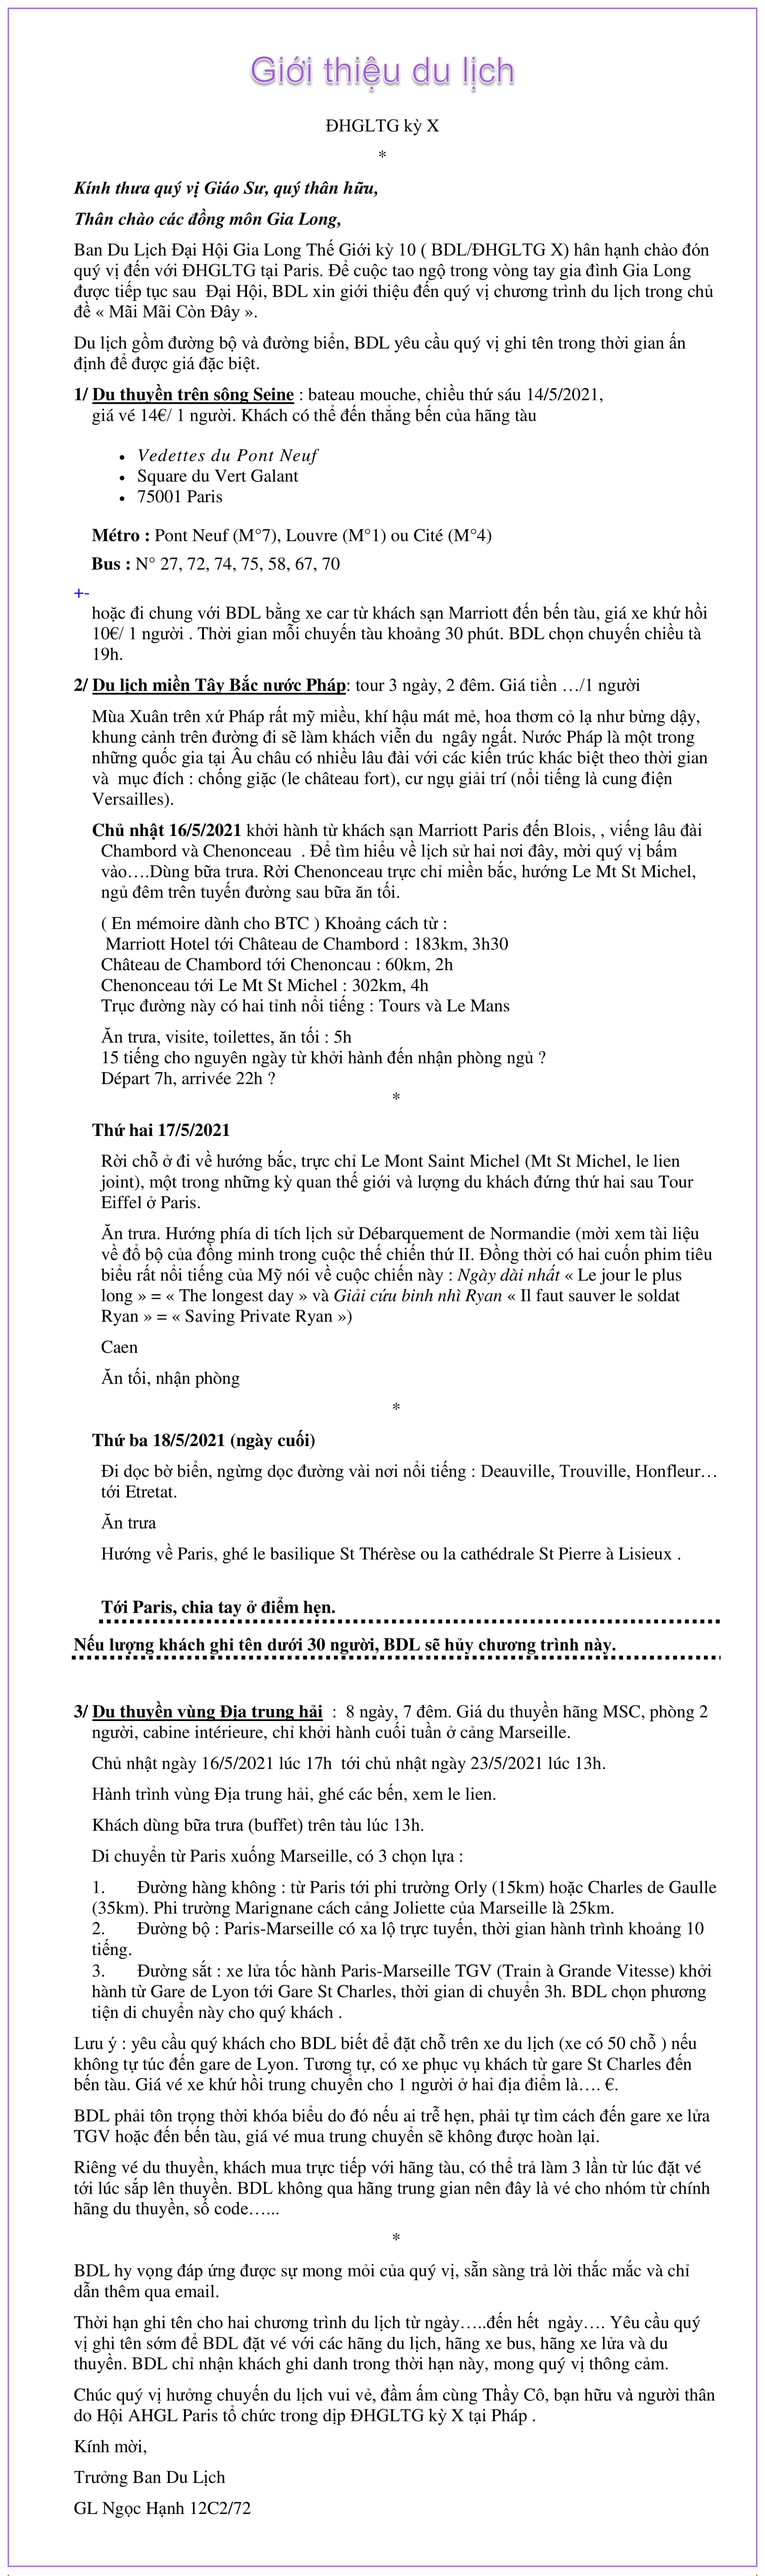
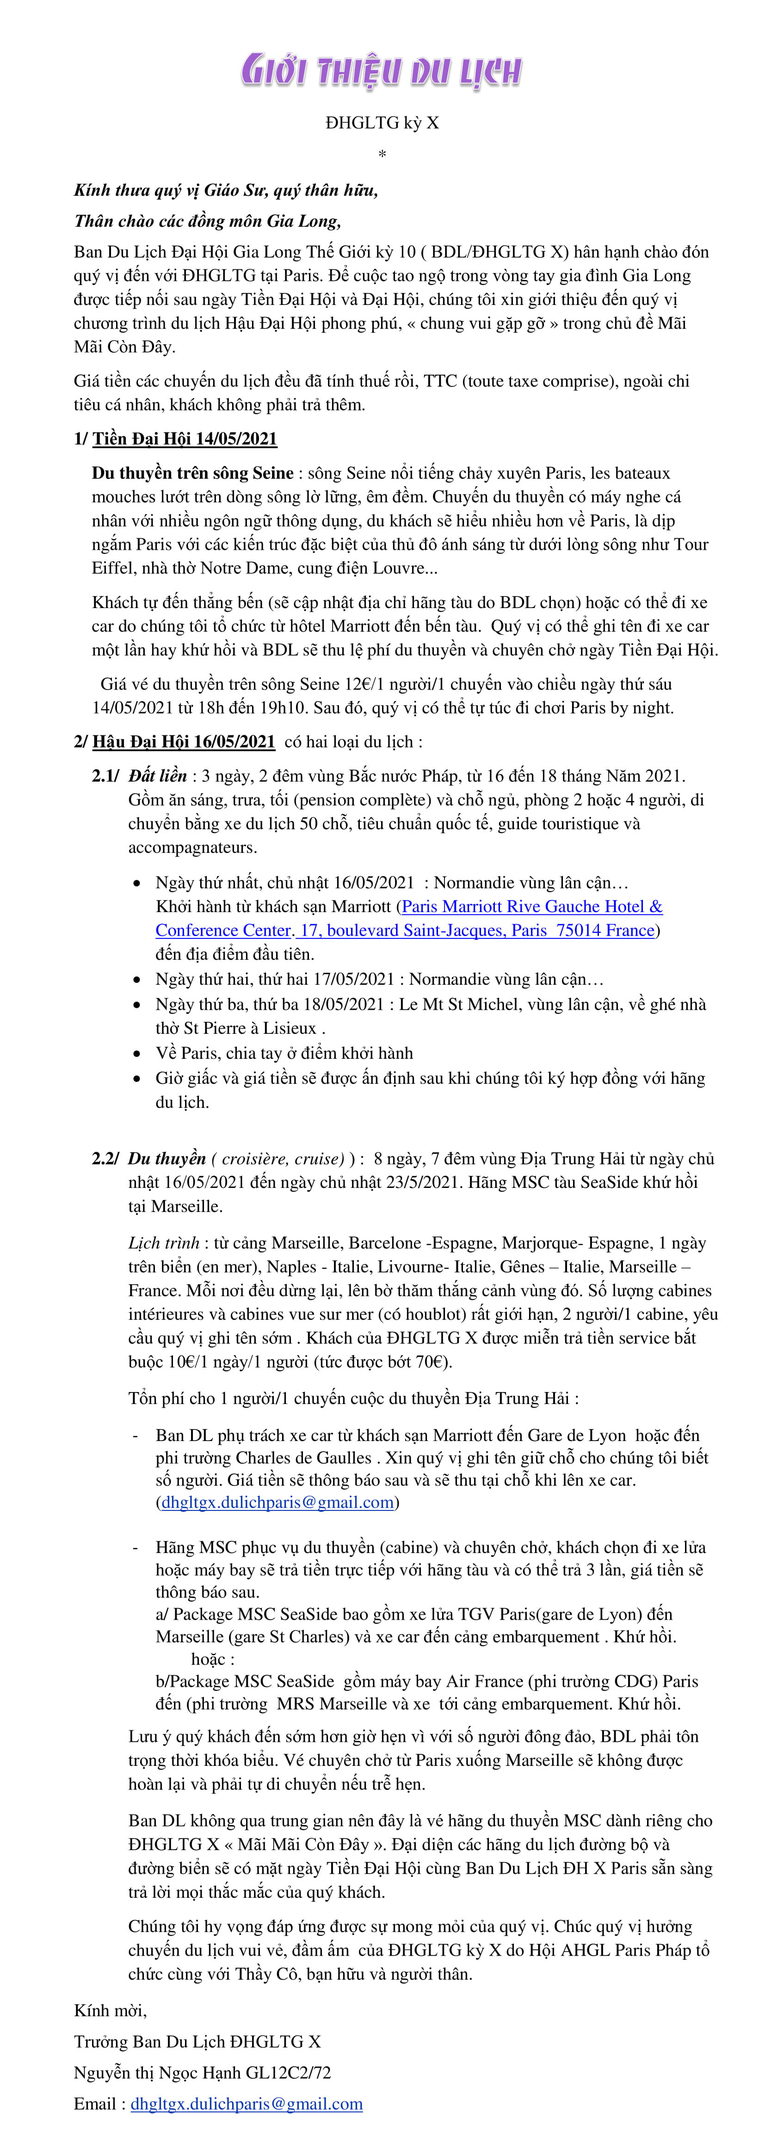
du lich

Changed region(s): [[0.0, 0.0, 0.9867, 1.0], [0.9867, 0.0, 1.0, 0.9959]]

diff --git a/Bao-chi/ThuNgoBaoChi.html b/Bao-chi/ThuNgoBaoChi.html
@@ -67,7 +67,7 @@
            <a class="nav-link dropdown-toggle" href="#" id="dropdown01" data-toggle="dropdown" aria-haspopup="true" aria-expanded="false">VĂN NGHỆ</a>
            <div class="dropdown-menu" aria-labelledby="dropdown01">
             <a class="dropdown-item" href="../Van-nghe/ThuNgoVanNghe.html">Thư ngỏ Ban Văn Nghệ</a>
-            <a class="dropdown-item" href="../Van-nghe/DongGopVanNghe.html">Đóng góp Văn Nghệ</a>
+            <a class="dropdown-item" href="../Van-nghe/TheLeGhiDanh.html">Thể Lệ Ghi Danh</a>
           </div>
         </li>
         <li class="nav-item dropdown active">
@@ -105,14 +105,14 @@
             <p class="paragraphe1">&#x2001;Để Đặc San ĐH được phong phú đồng thời tôn trọng nguồn cảm hứng của tác giả, Ban BC không hạn chế đề tài.</p>
             <p class="paragraphe1">&#x2001;Đặc san ĐH là món ăn tinh thần, là nơi người GL <I>tác giả</I> gửi gấm tâm tình tích trữ bao thập niên hoặc muốn chia sẻ niềm vui, nỗi nhớ mới, cũ ; là nơi người GL <I>độc giả</I> khám phá nhiều điều hay, lạ, lý thú, rồi khi tạm xếp quyển báo, độc giả lắng nghe tâm hồn xúc cảm một cách nhẹ nhàng, thoải mái vì đã tìm lại được thời áo trắng nữ sinh, thời gắn bó dưới mái trường Gia Long yêu dấu, thời của tuổi ô mai, đời chưa nhuốm bụi trần.</p>                  
             <p class="paragraphe1">&#x2001;Với kỳ vọng nội dung và ấn phẩm cuốn đặc san ĐH X sẽ làm hài lòng quý vị , Ban BC xin lưu ý tác giả vài điểm sau đây :</p>
-            <p class="paragraphe1">&#x2001;&#x2001;&#x2001;1.&#x2001;Không gửi bài đã được đăng trên thông tin địa phương hoặc các Hội đoàn.<br>
-            &#x2001;&#x2001;&#x2001;2.&#x2001;Bài viết không dài quá 5 trang A4, kể cả ảnh đính kèm.<br>
-            &#x2001;&#x2001;&#x2001;3.&#x2001;Gửi bài viết tay hoặc dưới dạng chữ Arial, khổ chữ 12, chúng tôi không nhận<br>
-            &#x2001;&#x2001;&#x2001;&#x2001;&#x2001;bài dưới dạng pdf.<br>
-            &#x2001;&#x2001;&#x2001;4.&#x2001;Bài gửi sẽ không hoàn lại (được chọn hay không ), Ban BC toàn quyền sửa,<br>
-            &#x2001;&#x2001;&#x2001;&#x2001;&#x2001;cắt ngắn bài nếu cần.<br>
-            &#x2001;&#x2001;&#x2001;5.&#x2001;Thời hạn nhận bài từ ngày ra thông báo trên website ĐHGLTG X đến hết <br>
-            &#x2001;&#x2001;&#x2001;&#x2001;&#x2001;ngày <b>01 tháng 01 năm 2021</b> .</p>
+            <p class="paragraphe1">&#x2001;&#x2001;1.&#x2000;Không gửi bài đã được đăng trên thông tin địa phương hoặc các Hội đoàn.<br>
+            &#x2001;&#x2001;2.&#x2000;Bài viết không dài quá 5 trang A4, kể cả ảnh đính kèm.<br>
+            &#x2001;&#x2001;3.&#x2000;Gửi bài viết tay hoặc dưới dạng chữ Arial, khổ chữ 12, chúng tôi không nhận<br>
+            &#x2001;&#x2001;&#x2001;&#x2000;bài dưới dạng pdf.<br>
+            &#x2001;&#x2001;4.&#x2000;Bài gửi sẽ không hoàn lại (được chọn hay không ), Ban BC toàn quyền sửa,<br>
+            &#x2001;&#x2001;&#x2001;&#x2000;cắt ngắn bài nếu cần.<br>
+            &#x2001;&#x2001;5.&#x2000;Thời hạn nhận bài từ ngày ra thông báo trên website ĐHGLTG X đến hết <br>
+            &#x2001;&#x2001;&#x2001;&#x2000;ngày <b>01 tháng 01 năm 2021</b> .</p>
             <p class="paragraphe1">Địa chỉ bưu điện : Association Gia Long Paris<br>
                &#x2001;&#x2001;&#x2001;&#x2001;&#x2001;&#x2001;&#x2001;&#x2001;22, rue Ampère<br>
                &#x2001;&#x2001;&#x2001;&#x2001;&#x2001;&#x2001;&#x2001;&#x2001;92160 ANTONY<br>
@@ -126,7 +126,7 @@
                 Trưởng ban BC<br>
                 Nguyễn thị Ngọc Hạnh<br>
                 (GL12 C2 72)<br>              
-            </p
+            </p>
             <br><br>
         </div>
       </div>

diff --git a/GhiDanh.html b/GhiDanh.html
@@ -70,7 +70,7 @@
            <a class="nav-link dropdown-toggle" href="#" id="dropdown01" data-toggle="dropdown" aria-haspopup="true" aria-expanded="false">VĂN NGHỆ</a>
            <div class="dropdown-menu" aria-labelledby="dropdown01">
             <a class="dropdown-item" href="Van-nghe/ThuNgoVanNghe.html">Thư ngỏ Ban Văn Nghệ</a>
-            <a class="dropdown-item" href="Van-nghe/DongGopVanNghe.html">Đóng góp Văn Nghệ</a>
+            <a class="dropdown-item" href="Van-nghe/TheLeGhiDanh.html">Thể Lệ Ghi Danh</a>
           </div>
         </li>
         <li class="nav-item dropdown">
@@ -101,16 +101,40 @@
   <main role="main">
     <div class="container">
       <div class="jumbotron">
-
-        <div class="containerPDF">
-          <!--object data="../images/PHIEU GHI DANH.pdf" type="application/pdf" width="100%" height="100%" internalinstanceid="5">
+        <!--div class="jumbotron1">
+            <br><br>
+            <p class="paragraphe1" align="center"><FONT color="#800080"><b>PHIẾU GHI DANH<br>
+              ĐẠI HỘI GIA LONG THẾ GIỚI KỲ X PARIS</FONT><br>
+              Ngày 14 Đến 15 tháng 5 Năm 2021</b><br>
+              (Dành cho cựu nữ sinh Gia Long và thân hữu)<br>
+              Ban tổ chức sẽ gởi phiếu ghi danh riêng đến quý Giáo Sư
+            </p><br>
+            <p class="paragraphe1">Có 2 cách ghi danh :<br>
+            </p>
+            <p style="text-align:center">                  
+                  <a href="images/PHIEU GHI DANH.xlsx" download><button type="button" class="btn btn-primary"><i class="fa fa-download"></i> PHIẾU GHI DANH DỰ ĐẠI HỘI dạng EXCEL</button></a>
+            </p>
+            <br><br>
+            <p style="text-align:center">                 
+                  <a href="images/PHIEU GHI DANH.pdf" download><button type="button" class="btn btn-primary"><i class="fa fa-download"></i> PHIẾU GHI DANH DỰ ĐẠI HỘI dạng PDF</button></a>
+            </p><br><br>
+        <object data="images/PHIEU GHI DANH.xlsx" type="applicati
+         on/xlsx" width="50%" height="50%" internalinstanceid="5">
+              <p style="text-align:center">
+                  It appears you don't have a EXCEL plugin for this browser.
+                  <a href="images/PHIEU GHI DANH.xlsx" download><button type="button" class="btn btn-primary"><i class="fa fa-download"></i> Download EXCEL</button></a>
+              </p>
+     
+          </object>
+          <object data="images/PHIEU GHI DANH.pdf" type="application/pdf" width="50%" height="50%" internalinstanceid="5">
+              <br><br><br><br>
               <p style="text-align:center">
                   It appears you don't have a PDF plugin for this browser.
-                  <a href="../images/PHIEU GHI DANH.pdf" download><button type="button" class="btn btn-primary"><i class="fa fa-download"></i> Download PDF</button></a>
-              </p>
-          </object-->
-        </div>
-        
+                  <a href="images/PHIEU GHI DANH.pdf" download><button type="button" class="btn btn-primary"><i class="fa fa-download"></i> Download PDF</button></a>
+              </p>          
+          </object>            
+
+        </div-->
       </div>
     </div>
   </main>

diff --git a/Dai-hoi10/TienDaiHoi.html b/Dai-hoi10/TienDaiHoi.html
@@ -67,7 +67,7 @@
            <a class="nav-link dropdown-toggle" href="#" id="dropdown01" data-toggle="dropdown" aria-haspopup="true" aria-expanded="false">VĂN NGHỆ</a>
            <div class="dropdown-menu" aria-labelledby="dropdown01">
             <a class="dropdown-item" href="../Van-nghe/ThuNgoVanNghe.html">Thư ngỏ Ban Văn Nghệ</a>
-            <a class="dropdown-item" href="../Van-nghe/DongGopVanNghe.html">Đóng góp Văn Nghệ</a>
+            <a class="dropdown-item" href="../Van-nghe/TheLeGhiDanh.html">Thể Lệ Ghi Danh</a>
           </div>
         </li>
         <li class="nav-item dropdown">
@@ -123,7 +123,7 @@
           <p class="paragraphe">Thời gian&nbsp&nbsp&nbsp&nbsp&nbsp:&nbsp&nbsp&nbsp&nbsp&nbsp18 g 00 - 19 g 30</p>
           <p class="paragraphe">Địa điểm&nbsp&nbsp&nbsp&nbsp&nbsp:&nbsp&nbsp&nbsp&nbsp&nbspPont Neuf</p>
           <p class="paragraphe">Du thuyền trên sông Seine quanh thành phố Paris buổi hoàng hôn dưới ánh đèn chiếu sáng cả hai bên dòng sông thơ mộng</p>
-          <p class="paragraphe">Giá vé&nbsp&nbsp&nbsp&nbsp&nbsp&nbsp&nbsp&nbsp&nbsp&nbsp:&nbsp&nbsp&nbsp&nbsp&nbsp<b>14 Euros</b></p>
+          <p class="paragraphe">Giá vé&nbsp&nbsp&nbsp&nbsp&nbsp&nbsp&nbsp&nbsp&nbsp&nbsp:&nbsp&nbsp&nbsp&nbsp&nbsp<b>12 Euros</b></p>
           <br>
           <p class="paragraphe">Đại Hội Gia Long Thế Giới Paris chúc Thầy Cô và các bạn tham dự một ngày vui trọn vẹn.</p>
           <br><br>

diff --git a/site.css b/site.css
@@ -35,7 +35,7 @@ body{
 }
 
 .ThuNgoImage{
-  width: 90%;
+  width: 85%;
   height: auto;
   margin-top: 30px;
   margin-bottom: 15px;
@@ -53,17 +53,17 @@ body{
   margin-left: 7%;
   margin-right: 7%;
   font-family: 'Livvic', sans-serif;
-  font-size: 19px;
-  line-height: 30px;
+  font-size: 17px;
+  line-height: 20px;
 }
 .paragraphe1 {
   text-indent: 0px;
-  margin-left: 9%;
+  margin-left: 7%;
   margin-right: 7%;
   font-family: 'Livvic', sans-serif;
   /*font-family: 'Times New Roman', Times, serif;*/
-  font-size: 19px;
-  line-height: 31px;
+  font-size: 17px;
+  line-height: 25px;
   user-select: none;
 }
 
@@ -72,9 +72,9 @@ body{
   margin-left: 5%;
   margin-right: 5%;
   font-family: 'Times New Roman', Times, serif;
-  font-size: 26px;
+  font-size: 21px;
   /*font-weight: bold;*/
-  line-height: 28px;
+  line-height: 24px;
 
 }
 .jumbotron{
@@ -98,7 +98,7 @@ body{
   }
 .jumbotron2{
   padding-top: 1%;
-  width: 80%;
+  width: 85%;
   display:block;
   margin-top: 1%;
   margin-left:auto;
@@ -131,6 +131,16 @@ body{
   text-shadow: 1px 1px #000000;
   line-height: 14px;
   font-size: 13px;
+ }
+ @media only screen and (max-device-width:1100px)
+ {
+  .nav-link{
+  color: white!important;
+  font-family: 'Merriweather', serif;
+  text-shadow: 1px 1px #000000;
+  line-height: 11px;
+  font-size: 10px;
+ }
  }
 .dropdown-item{
   font-family: 'Merriweather', serif;

diff --git a/Van-nghe/TheLeGhiDanh.html b/Van-nghe/TheLeGhiDanh.html
@@ -5,7 +5,7 @@
   <meta name="description" content="">
   <meta name="author" content="AHGLPARIS">
   <meta name="generator" content="Jekyll v3.8.5">
-  <title>ĐÓNG GÓP VĂN NGHỆ</title>
+  <title> THỂ LỆ GHI DANH</title>
 
   <link rel="canonical" href="https://getbootstrap.com/docs/4.3/examples/jumbotron/">
   <!-- Bootstrap core CSS -->
@@ -67,7 +67,7 @@
            <a class="nav-link dropdown-toggle" href="#" id="dropdown01" data-toggle="dropdown" aria-haspopup="true" aria-expanded="false">VĂN NGHỆ</a>
            <div class="dropdown-menu" aria-labelledby="dropdown01">
             <a class="dropdown-item" href="../Van-nghe/ThuNgoVanNghe.html">Thư ngỏ Ban Văn Nghệ</a>
-            <a class="dropdown-item" href="../Van-nghe/DongGopVanNghe.html">Đóng góp Văn Nghệ<span class="sr-only">(current)</span></a>
+            <a class="dropdown-item" href="../Van-nghe/TheLeGhiDanh.html">Thể Lệ Ghi Danh<span class="sr-only">(current)</span></a>
           </div>
         </li>
         <li class="nav-item dropdown">

diff --git a/Du-lich/ThuNgoDuLich.html b/Du-lich/ThuNgoDuLich.html
@@ -67,7 +67,7 @@
            <a class="nav-link dropdown-toggle" href="#" id="dropdown01" data-toggle="dropdown" aria-haspopup="true" aria-expanded="false">VĂN NGHỆ</a>
            <div class="dropdown-menu" aria-labelledby="dropdown01">
             <a class="dropdown-item" href="../Van-nghe/ThuNgoVanNghe.html">Thư ngỏ Ban Văn Nghệ</a>
-            <a class="dropdown-item" href="../Van-nghe/DongGopVanNghe.html">Đóng góp Văn Nghệ</a>
+            <a class="dropdown-item" href="../Van-nghe/TheLeGhiDanh.html">Thể Lệ Ghi Danh</a>
           </div>
         </li>
         <li class="nav-item dropdown">
@@ -102,9 +102,10 @@
 
 
       <div class="jumbotron">
-        <!--img src="../images/GioiThieuDuLich.jpg" class="responsiveImage1"-->
+        <div class="jumbotron1">
+          <img src="../images/GioiThieuDuLich.jpg" class="responsiveImage1">
+        </div>
       </div>
-
     </div>
 
 

diff --git a/Gioi-thieu/GiaoSuCoVan.html b/Gioi-thieu/GiaoSuCoVan.html
@@ -67,7 +67,7 @@
            <a class="nav-link dropdown-toggle" href="#" id="dropdown01" data-toggle="dropdown" aria-haspopup="true" aria-expanded="false">VĂN NGHỆ</a>
            <div class="dropdown-menu" aria-labelledby="dropdown01">
             <a class="dropdown-item" href="../Van-nghe/ThuNgoVanNghe.html">Thư ngỏ Ban Văn Nghệ</a>
-            <a class="dropdown-item" href="../Van-nghe/DongGopVanNghe.html">Đóng góp Văn Nghệ</a>
+            <a class="dropdown-item" href="../Van-nghe/TheLeGhiDanh.html">Thể Lệ Ghi Danh</a>
           </div>
         </li>
         <li class="nav-item dropdown">
@@ -102,7 +102,7 @@
 
 
       <div class="jumbotron">
-        <img src="../images/GsCoVan.jpg" alt="" class="responsiveImage2">
+          <img src="../images/GsCoVan.jpg" alt="" class="responsiveImage2">
       </div>
 
     </div>

diff --git a/Gioi-thieu/ThuMoi.html b/Gioi-thieu/ThuMoi.html
@@ -67,7 +67,7 @@
            <a class="nav-link dropdown-toggle" href="#" id="dropdown01" data-toggle="dropdown" aria-haspopup="true" aria-expanded="false">VĂN NGHỆ</a>
            <div class="dropdown-menu" aria-labelledby="dropdown01">
             <a class="dropdown-item" href="../Van-nghe/ThuNgoVanNghe.html">Thư ngỏ Ban Văn Nghệ</a>
-            <a class="dropdown-item" href="../Van-nghe/DongGopVanNghe.html">Đóng góp Văn Nghệ</a>
+            <a class="dropdown-item" href="../Van-nghe/TheLeGhiDanh.html">Thể Lệ Ghi Danh</a>
           </div>
         </li>
         <li class="nav-item dropdown">
@@ -102,7 +102,7 @@
 
 
       <div class="jumbotron">
-        <img src="../images/ThuMoi.jpg" alt="" class="responsiveImage2">
+          <img src="../images/ThuMoi.jpg" alt="" class="responsiveImage2">
       </div>
 
     </div>

diff --git a/Van-nghe/ThuNgoVanNghe.html b/Van-nghe/ThuNgoVanNghe.html
@@ -67,7 +67,7 @@
            <a class="nav-link dropdown-toggle" href="#" id="dropdown01" data-toggle="dropdown" aria-haspopup="true" aria-expanded="false">VĂN NGHỆ</a>
            <div class="dropdown-menu" aria-labelledby="dropdown01">
             <a class="dropdown-item" href="../Van-nghe/ThuNgoVanNghe.html">Thư ngỏ Ban Văn Nghệ<span class="sr-only">(current)</span></a>
-            <a class="dropdown-item" href="../Van-nghe/DongGopVanNghe.html">Đóng góp Văn Nghệ</a>
+            <a class="dropdown-item" href="../Van-nghe/TheLeGhiDanh.html">Thể Lệ Ghi Danh</a>
           </div>
         </li>
         <li class="nav-item dropdown">

diff --git a/Du-lich/DanhSachDuLich1.html b/Du-lich/DanhSachDuLich1.html
@@ -67,7 +67,7 @@
            <a class="nav-link dropdown-toggle" href="#" id="dropdown01" data-toggle="dropdown" aria-haspopup="true" aria-expanded="false">VĂN NGHỆ</a>
            <div class="dropdown-menu" aria-labelledby="dropdown01">
             <a class="dropdown-item" href="../Van-nghe/ThuNgoVanNghe.html">Thư ngỏ Ban Văn Nghệ</a>
-            <a class="dropdown-item" href="../Van-nghe/DongGopVanNghe.html">Đóng góp Văn Nghệ</a>
+            <a class="dropdown-item" href="../Van-nghe/DongGopVanNghe.html">Thể Lệ Ghi Danh</a>
           </div>
         </li>
         <li class="nav-item dropdown">

diff --git a/Dai-hoi10/DaiHoi.html b/Dai-hoi10/DaiHoi.html
@@ -67,7 +67,7 @@
            <a class="nav-link dropdown-toggle" href="#" id="dropdown01" data-toggle="dropdown" aria-haspopup="true" aria-expanded="false">VĂN NGHỆ</a>
            <div class="dropdown-menu" aria-labelledby="dropdown01">
             <a class="dropdown-item" href="../Van-nghe/ThuNgoVanNghe.html">Thư ngỏ Ban Văn Nghệ</a>
-            <a class="dropdown-item" href="../Van-nghe/DongGopVanNghe.html">Đóng góp Văn Nghệ</a>
+            <a class="dropdown-item" href="../Van-nghe/TheLeGhiDanh.html">Thể Lệ Ghi Danh</a>
           </div>
         </li>
         <li class="nav-item dropdown">

diff --git a/Dai-hoi10/HauDaiHoi.html b/Dai-hoi10/HauDaiHoi.html
@@ -67,7 +67,7 @@
            <a class="nav-link dropdown-toggle" href="#" id="dropdown01" data-toggle="dropdown" aria-haspopup="true" aria-expanded="false">VĂN NGHỆ</a>
            <div class="dropdown-menu" aria-labelledby="dropdown01">
             <a class="dropdown-item" href="../Van-nghe/ThuNgoVanNghe.html">Thư ngỏ Ban Văn Nghệ</a>
-            <a class="dropdown-item" href="../Van-nghe/DongGopVanNghe.html">Đóng góp Văn Nghệ</a>
+            <a class="dropdown-item" href="../Van-nghe/TheLeGhiDanh.html">Thể Lệ Ghi Danh</a>
           </div>
         </li>
         <li class="nav-item dropdown">
